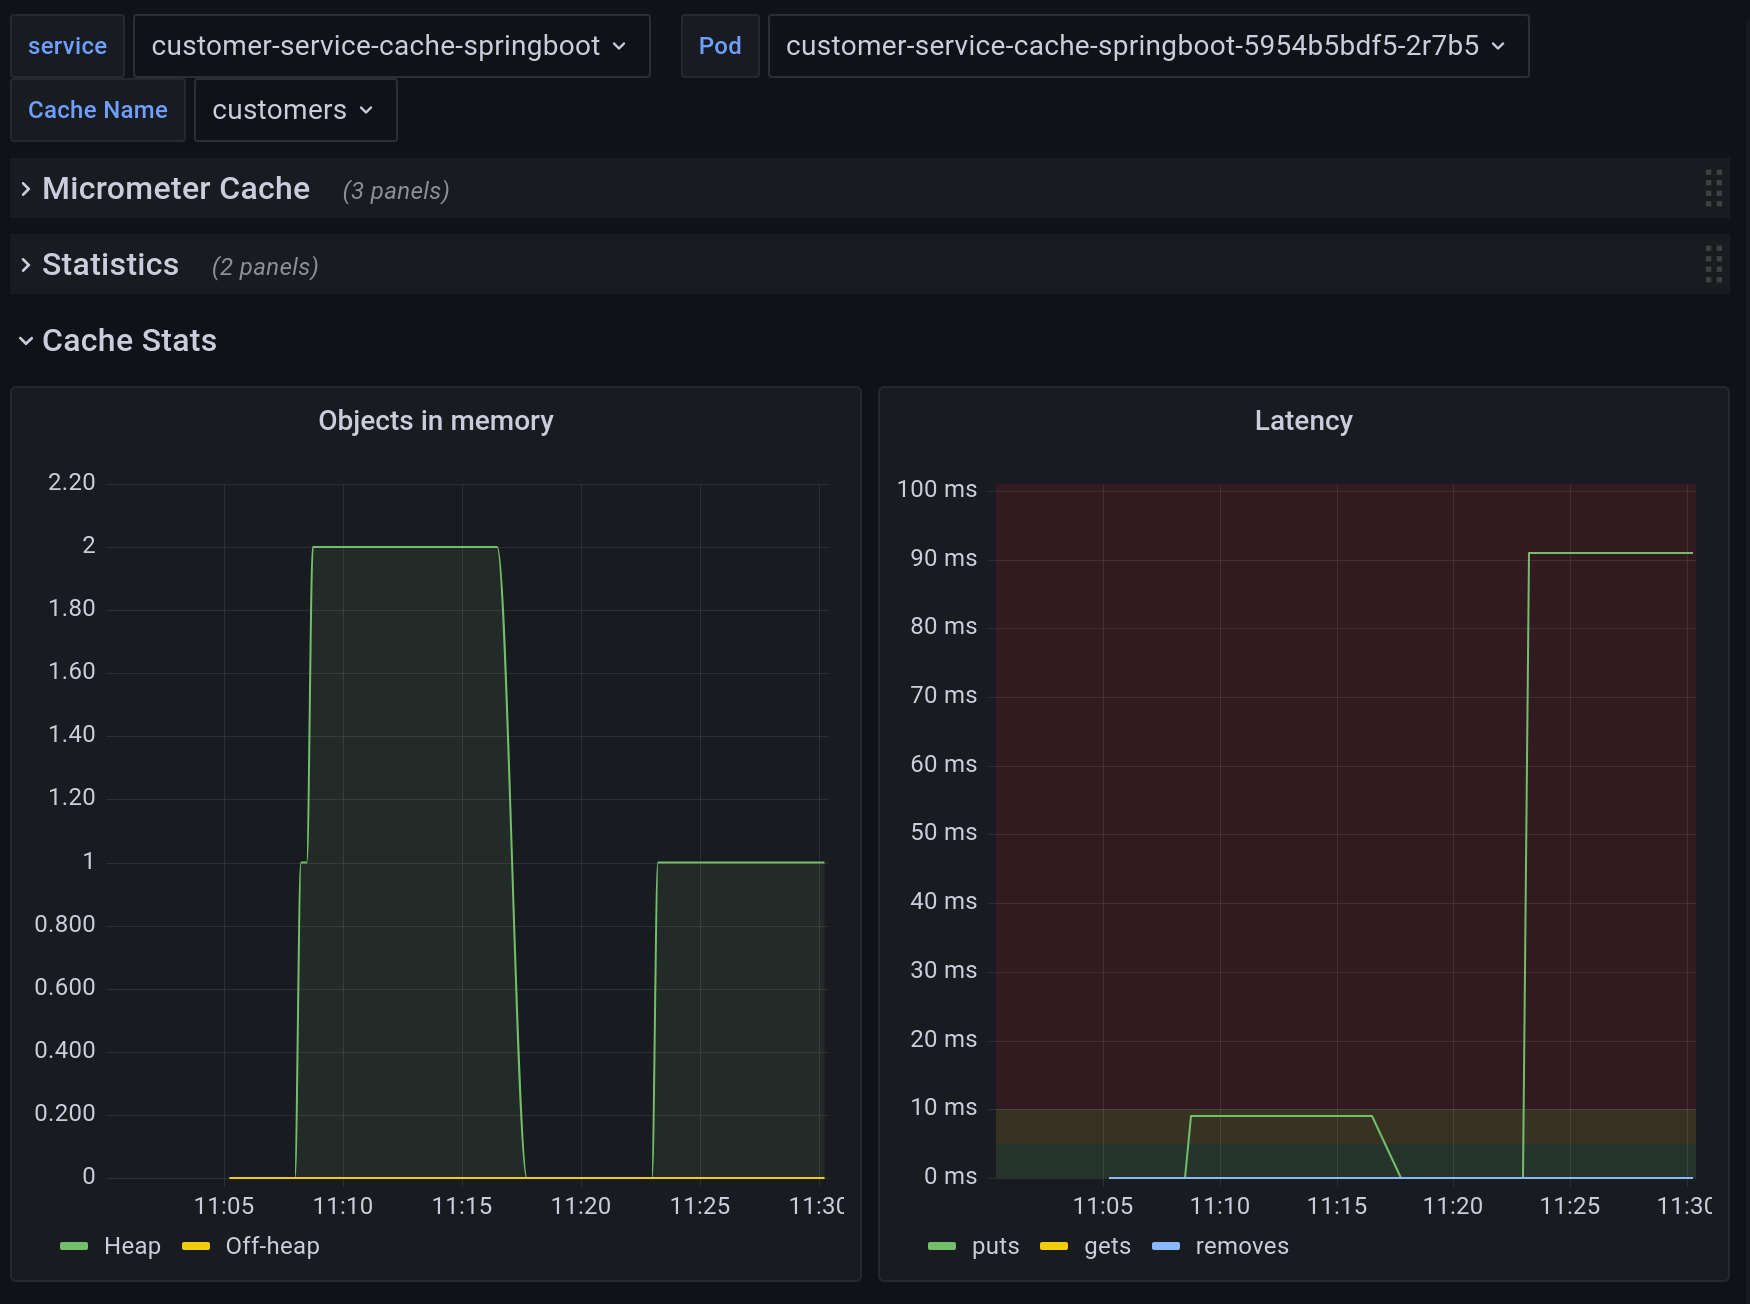
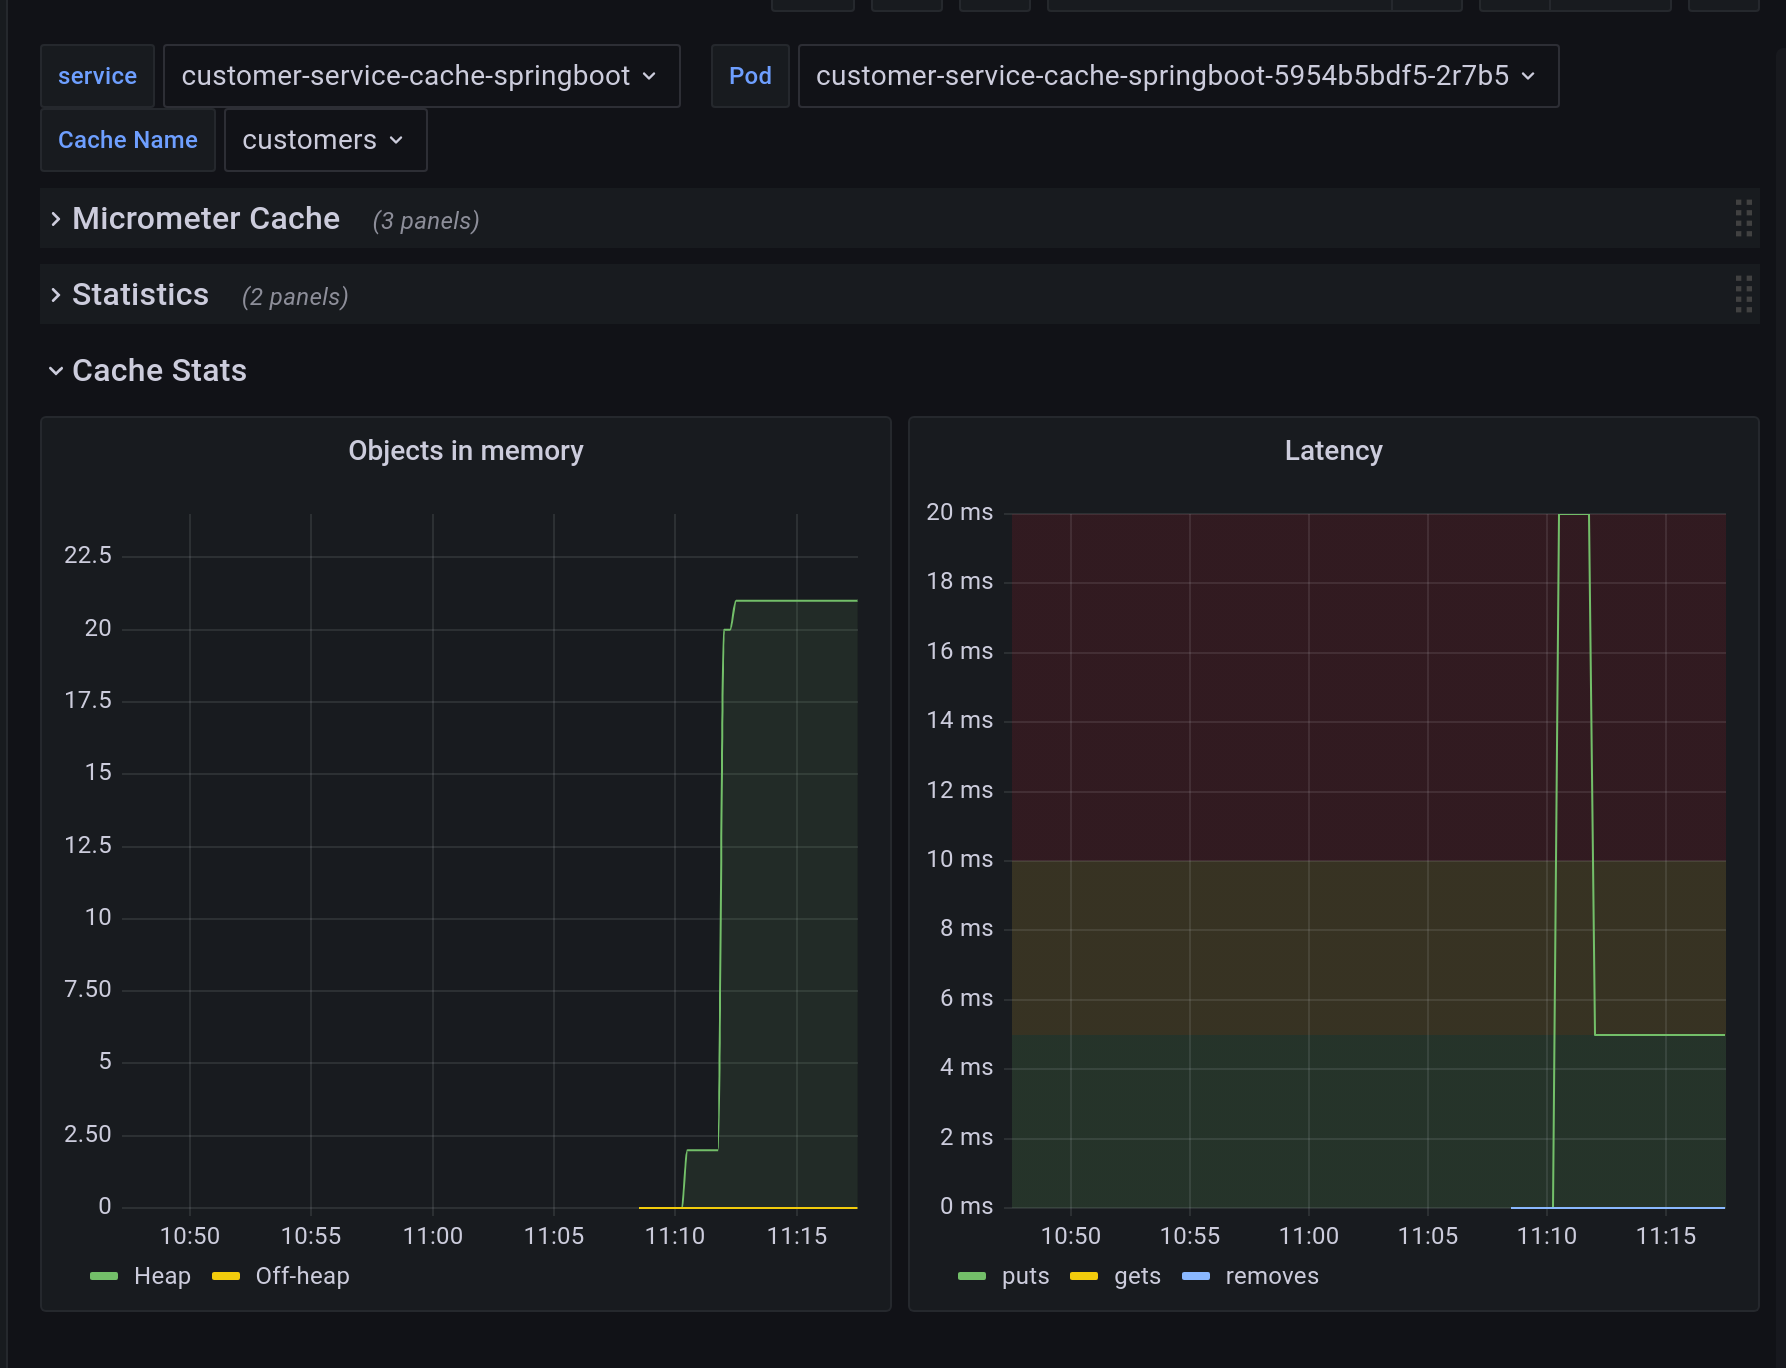
panel3 updated and some comments

diff --git a/content/post/2021-09_Monitoring_springboot_embedded_infinispan/index.md b/content/post/2021-09_Monitoring_springboot_embedded_infinispan/index.md
@@ -63,3 +63,5 @@ Second one is about cache statistics: when cache was started and when statistics
 And last one is related to performance in the caches. Memory usage and time that takes to do operations in the cache are shown.
 
 ![Performance Panel](images/panel3.png)
+
+As you can see, after first put that warms the microservice, average put time is very low, but the more impressive one is get time, that takes less than a millisecond and so it cannot even be seen.
